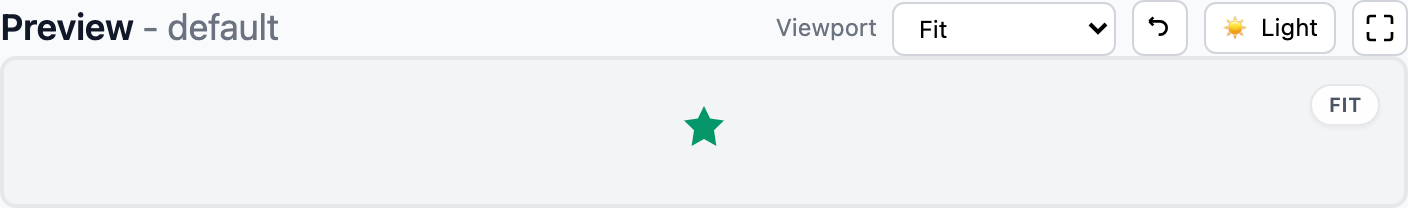
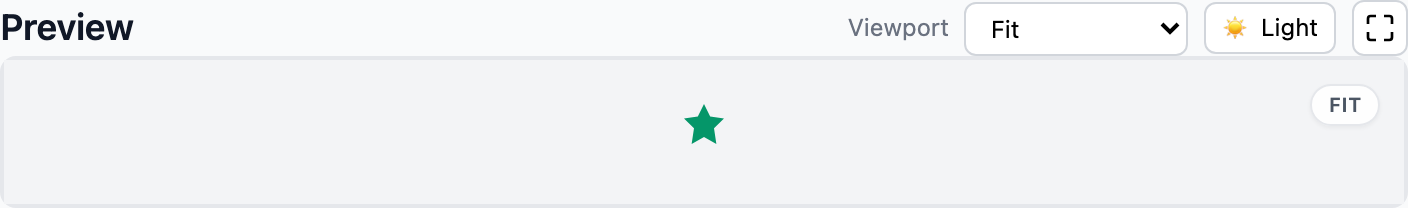
Refresh docs screenshots and remove preview subtitles

diff --git a/docs/index.ja.html b/docs/index.ja.html
@@ -115,11 +115,18 @@
       .stack {
         display: grid;
         gap: 18px;
+        grid-template-columns: minmax(0, 1fr);
+      }
+      .stack > * {
+        min-width: 0;
       }
       .grid-2 {
         display: grid;
         gap: 18px;
         grid-template-columns: repeat(auto-fit, minmax(240px, 1fr));
+      }
+      .grid-2 > div {
+        min-width: 0;
       }
       .shot {
         padding: 0;
@@ -142,6 +149,11 @@
         font-size: 13px;
         line-height: 1.6;
         overflow-x: auto;
+        max-width: 100%;
+        box-sizing: border-box;
+        width: 100%;
+        min-width: 0;
+        display: block;
       }
       .pill {
         display: inline-flex;
@@ -153,6 +165,10 @@
         color: #166534;
         font-size: 12px;
         font-weight: 600;
+        max-width: 100%;
+        overflow: hidden;
+        text-overflow: ellipsis;
+        white-space: nowrap;
       }
     </style>
   </head>
@@ -367,7 +383,7 @@
  * @param error {@code String} [optional=] Error message
  * @param required {@code Boolean} [optional=false] Required flag
  * @param disabled {@code Boolean} [optional=false] Disabled flag
- * @model options {@code List<Map<String, Object>>} [required] Options with value/label
+* @model options {@code List&lt;Map&lt;String, Object&gt;&gt;} [required] Options with value/label
  * @example &lt;div th:replace="~{components/form-select :: selectInput(label='Plan', name='plan', selected='pro', help='Choose your plan', error='', required=true, disabled=false)}"&gt;&lt;/div&gt;
  */</pre>
           <div class="caption">フラグメントのソースに記載した JavaDoc コメント。</div>

diff --git a/docs/index.html b/docs/index.html
@@ -115,11 +115,18 @@
       .stack {
         display: grid;
         gap: 18px;
+        grid-template-columns: minmax(0, 1fr);
+      }
+      .stack > * {
+        min-width: 0;
       }
       .grid-2 {
         display: grid;
         gap: 18px;
         grid-template-columns: repeat(auto-fit, minmax(240px, 1fr));
+      }
+      .grid-2 > div {
+        min-width: 0;
       }
       .shot {
         padding: 0;
@@ -142,6 +149,11 @@
         font-size: 13px;
         line-height: 1.6;
         overflow-x: auto;
+        max-width: 100%;
+        box-sizing: border-box;
+        width: 100%;
+        min-width: 0;
+        display: block;
       }
       .pill {
         display: inline-flex;
@@ -153,6 +165,10 @@
         color: #166534;
         font-size: 12px;
         font-weight: 600;
+        max-width: 100%;
+        overflow: hidden;
+        text-overflow: ellipsis;
+        white-space: nowrap;
       }
     </style>
   </head>
@@ -370,7 +386,7 @@
  * @param error {@code String} [optional=] Error message
  * @param required {@code Boolean} [optional=false] Required flag
  * @param disabled {@code Boolean} [optional=false] Disabled flag
- * @model options {@code List<Map<String, Object>>} [required] Options with value/label
+* @model options {@code List&lt;Map&lt;String, Object&gt;&gt;} [required] Options with value/label
  * @example &lt;div th:replace="~{components/form-select :: selectInput(label='Plan', name='plan', selected='pro', help='Choose your plan', error='', required=true, disabled=false)}"&gt;&lt;/div&gt;
  */</pre>
           <div class="caption">JavaDoc comment in the fragment source.</div>

diff --git a/src/main/resources/templates/thymeleaflet/fragments/preview-panel.html b/src/main/resources/templates/thymeleaflet/fragments/preview-panel.html
@@ -62,7 +62,7 @@
 </div>
 
 <div th:fragment="panel" class="card-thymeleaflet">
-    <th:block th:fragment="panel-subtitle">
+    <th:block th:fragment="panel-subtitle" th:remove="all">
         <span class="text-gray-500 font-normal" th:text="'- ' + ${selectedStory.displayTitle ?: selectedStory.storyName}">- Default</span>
     </th:block>
     <div th:replace="~{thymeleaflet/fragments/preview-panel :: header(${selectedStory} != null ? ~{::panel-subtitle} : null)}"></div>
